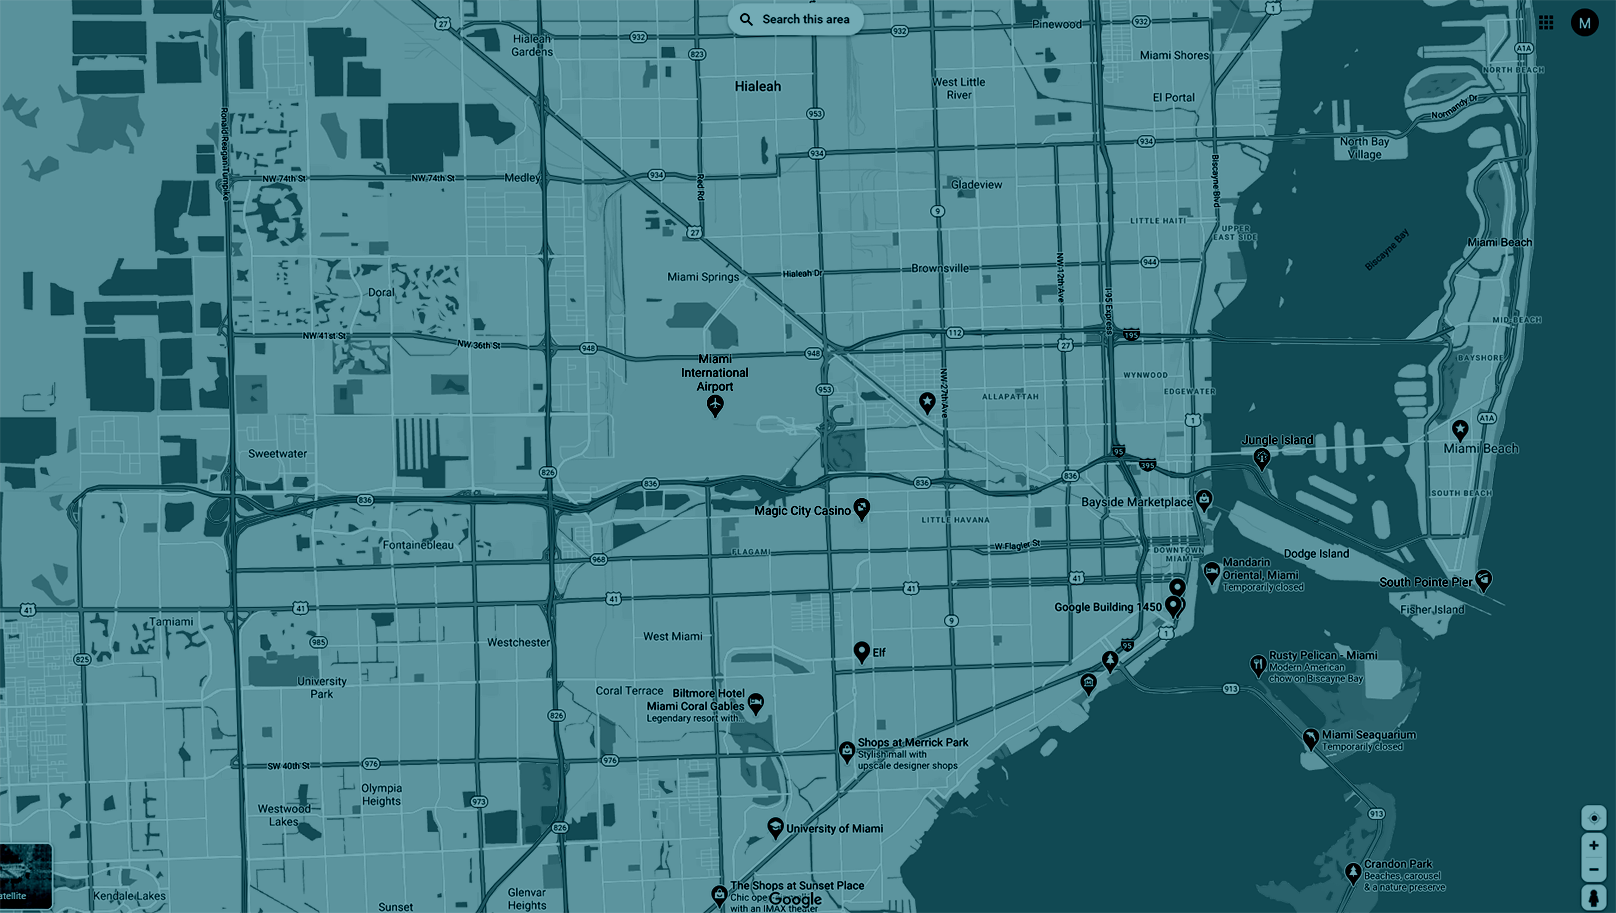
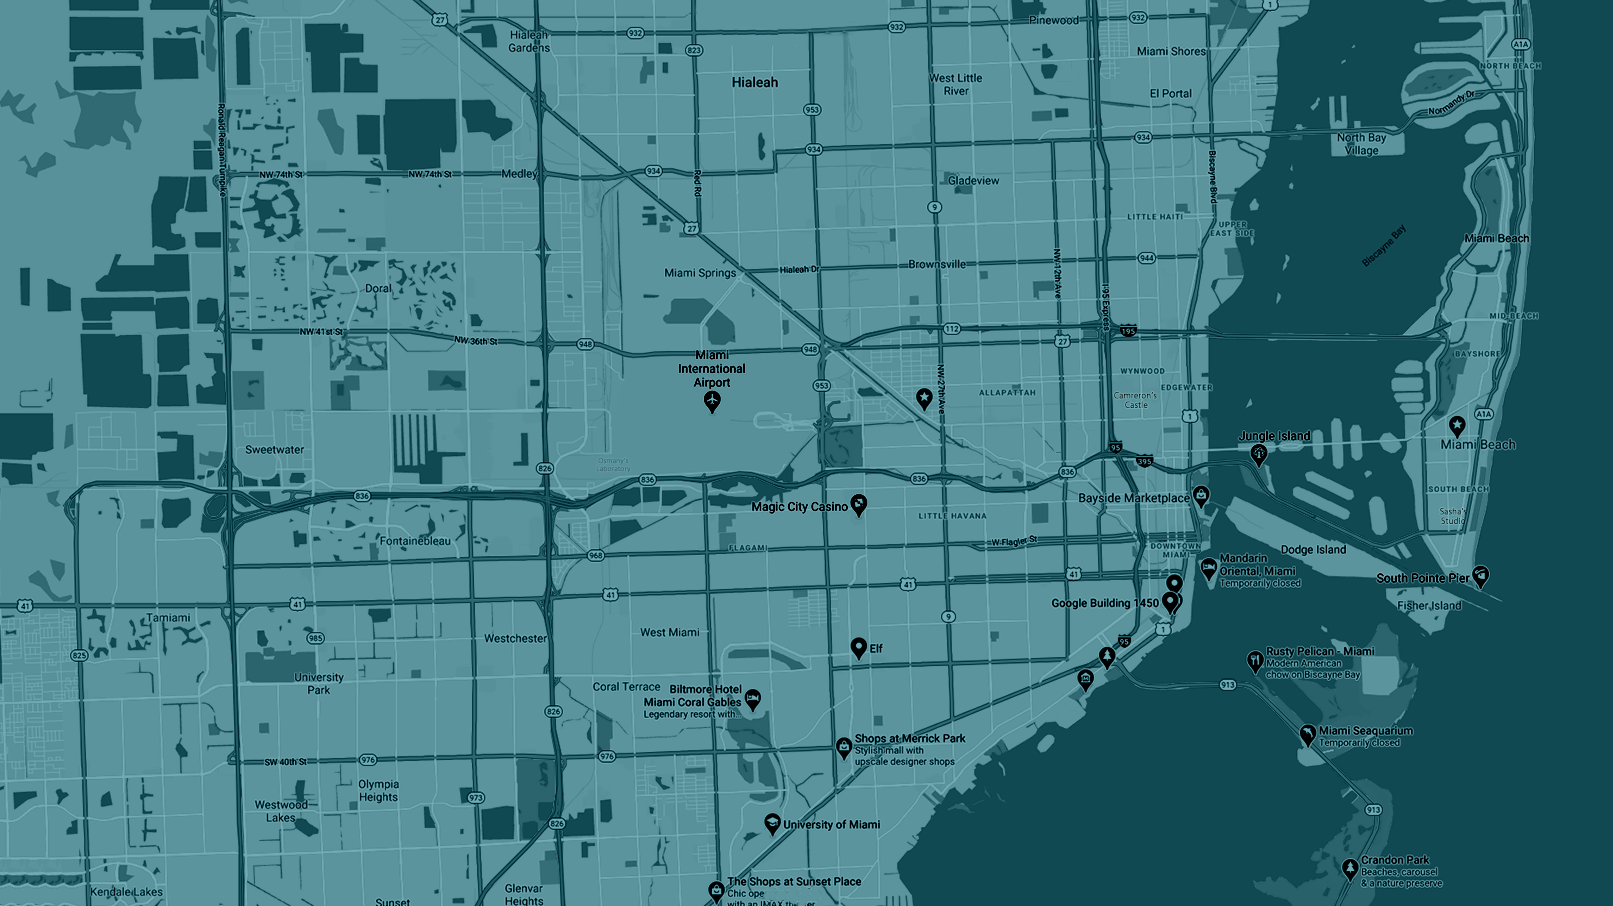
refactored home and registration. cleaned up map img

diff --git a/view/src/components/Registration/index.jsx b/view/src/components/Registration/index.jsx
@@ -1,34 +1,39 @@
-import React from 'react'
+import React from 'react';
 import Card from '../Card/index';
 import { Link } from 'react-router-dom';
 import Button from '../Button/index';
-import {card, getStarted } from '../../pages/Home.module.css';
+import mapImg from '../../miamiMap.png';
+import { registration, card } from './index.module.css';
 
-const Registration = ()=>{
-    return(
-        <div className={getStarted}>
-        <Card
-            customClassName={card}
-            height="fit-content"
-            top="50%"
-            left="50%"
-            radius="2em"
-            border
-            shadow
-        >
-            <div className="mx-auto p-3" style={{ width: 'auto' }}>
-                <div className="row">
-                    <div className="col text-center">
-                        <h1>People Budget</h1>
-                        <p><b>A civic enagement process for educating Miamians on budgeting</b></p>
-                    </div>
-                </div>
-                <Link color="white" to="/register">
-                    <Button>Get Started</Button>
-                </Link>
+const Registration = () => {
+    return (
+        <div className={`row  ${registration}`}>
+            <div className="col-12">
+                <img src={mapImg} alt="Map of Miami" />
             </div>
-        </Card>
-    </div>
-    )
-}
+            <Card
+                customClassName={card}
+                top="50%"
+                left="50%"
+                radius="2em"
+                border
+                shadow
+            >
+                <div className="mx-auto p-3" style={{ width: 'auto' }}>
+                    <div className="row">
+                        <div className="col text-center">
+                            <h1>People Budget</h1>
+                            <p>
+                                <b>A civic enagement process for educating Miamians on budgeting</b>
+                            </p>
+                        </div>
+                    </div>
+                    <Link color="white" to="/register">
+                        <Button>Get Started</Button>
+                    </Link>
+                </div>
+            </Card>
+        </div>
+    );
+};
 export default Registration;

diff --git a/view/src/components/Registration/index.module.css b/view/src/components/Registration/index.module.css
@@ -1,15 +1,48 @@
 .registration {
     position: relative;
-    background-image: url('../../src/miamiMap.png');
-    background-size: contain;
-    background-repeat: no-repeat;
+}
+
+.registration img {
     width: 100vw;
-    height: 0;
-    padding-top: 56.49%; /* (img-height / img-width * container-width) */
-    /* (913 / 1616 * 100) */
 }
 
 .card {
     position: absolute;
     transform: translate(-50%, -50%);
+}
+
+
+/* Media Queries: To Control the Size of Components */
+@media screen and (max-width: 350px) {
+    .card {
+        width: 80vw !important;
+        font-size: 3vw;
+    }
+    .card h1 {
+        font-size: 4vw;
+    }
+}
+/*If screen size 500x or less use theses sytles*/
+@media screen and (max-width: 500px) {
+    .card {
+        width: 90vw !important;
+        font-size: 2vw;
+    }
+    .card h1 {
+        font-size: 4vw;
+    }
+}
+
+/*If screen size 501px or more use theses sytles*/
+@media screen and (min-width: 501px) {
+    .card {
+        width: 350px !important;
+    }
+}
+
+/*If screen size 900px or more use theses sytles*/
+@media screen and (min-width: 900px) {
+    .card {
+        width: 350px !important;
+    }
 }

diff --git a/view/src/pages/Home.jsx b/view/src/pages/Home.jsx
@@ -4,7 +4,6 @@ import { Context } from '../store/store';
 import Contributor from '../components/Contributors/index';
 import Overview from '../components/Overview';
 import Registration from '../components/Registration';
-import { home } from './Home.module.css';
 import Info from '../components/Info Section/Info';
 
 const Home = () => {
@@ -12,7 +11,7 @@ const Home = () => {
         actions: { getMenus }
     } = useContext(Context);
     return (
-        <div className={`${home} container-fluid`}>
+        <div className={`p-0 container-fluid`}>
             <Navbar options={getMenus()} />
             <Registration />
             <Overview />
